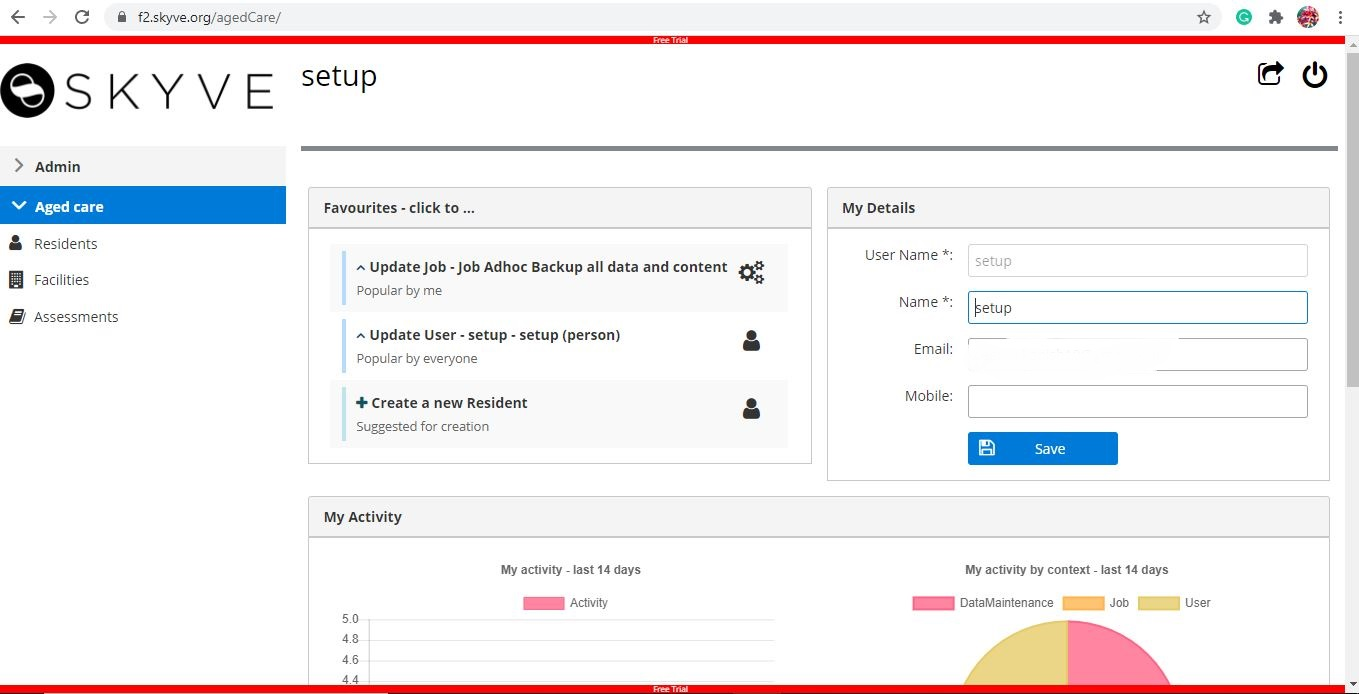
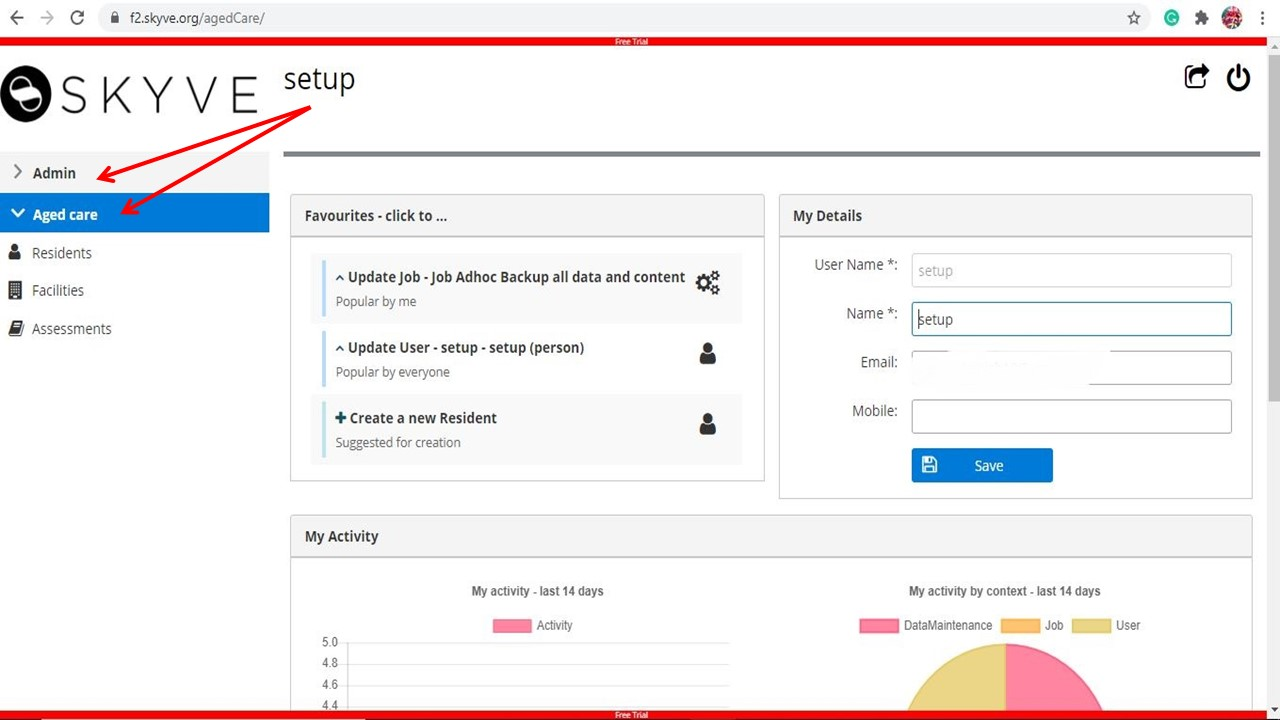
updated changes

diff --git a/readme.md b/readme.md
@@ -286,11 +286,27 @@ There are following steps to deploy Aged care application as we created in [Foun
 
 ### 2.4. Using your Aged care app
 
-Your application is ready to go. It contains two modules:Admin and Aged care. Admin module is the part of the Skyve platform. In the Aged care module, you we see the all three documents we created in the [Foundry](https://foundry.skyve.org/foundry/). Let's see how it look like...
+Your application is ready to go. It contains two modules:Admin and Aged care. These two modules show as two menus in the application as shown below.
+The Admin module is the provided as part of the Skyve platform for all applications. It provides a range of powerful administration features, including:
 
-Click on Aged care
+- user and access management
+- scheduled backups and restoring from backups
+- ability to import and export data
+- scheduled jobs and tasks
+- comprehensive system user activity audit tracking, keeping records of every user interaction in the system.
+
+In the Aged care module, you we see the a menu item for each of the three documents we created in the foundry. Let's see how it look like...
+
+Click to expand the Aged menu.
 
 ![app](doc_src_img/chapter4/4.jpg "app")
+
+You will notice two red lines- one at the top of the screen and one at the bottom of the screen.
+Generally organisations will run several instances of their application, for example, Production, Quality Assurance, Test/UAT and Development etc. For non-production instances, Skyve adds these labels so that the person using the system clearly understands whether they are working on a Production instance or not.
+
+In this case, we are using the Foundry `Free Trial` instance, so the two red indicators show. When you move to a production instance (either hosted on Foundry, or on your own infrastructure) these instance identifiers will not show.
+
+![free trail](doc_src_img/chapter4/11.jpg "free trail")
 
 Click on Facility and then add button
 
@@ -298,7 +314,7 @@ Click on Facility and then add button
 
 Enter the detail of facility in the fields and click on "Ok" or "Save" button.
 
-**Ok button:** This button performs Save and Close action on cliked. This will save the changes and return you in previous page.
+**Ok button:** This button performs Save and Close action on clicked. This will save the changes and return you in previous page.
 
 **Save button:** This button will save any changes you perform in the current page when you click on it.
 
@@ -316,23 +332,21 @@ Add data in Assessments
 
 #### Desktop Mode
 
-Skyve provides two seprate user interface: Normal mode and power user mode. In normal mode, the interface is responsive and mobile and tablet friendly where as the power user mode is great for desktop browsers.
+Skyve provides two separate user interface: Normal mode and power user mode. In normal mode, the interface is responsive and mobile and tablet friendly where as the power user mode is great for desktop browsers.
 
 To switch between interface click on the switch icon on the top-right of the application screen.
 
 ![Switch icon](doc_src_img/chapter4/9.jpg "Switch icon")
 
-After clicking
+After switching
 
 ![Switch icon click](doc_src_img/chapter4/10.jpg "Switch icon click")
 
 #### Making Changes and Re-Deploying
 
-The Skyve free trial server will automatically undeploy your project after one hour - but you can redeploy your application as many times as you need during your testing and your data is saved while the project is offline.
+The [Foundry](https://foundry.skyve.org/foundry) free trial server will automatically undeploy your project after one hour - but you can redeploy your application as many times as you need during your testing and your data is saved while the project is offline.
 
 # 3. Low Code Extension
-
-As we already explained about the low code extension at the beginning of the tutorial.
 
 In this section, we will work on collaboration and configuration of the local environment. After that, we will do some editing in the XML files, which will change the lists, views, and layout of our application. So, this step will enable us to test and deploy our application locally on our own (or another machine).
 
@@ -386,11 +400,13 @@ To create a new repository follow the steps below:
 
   ![Repository file](doc_src_img/Chapter2/7.jpg "Repository file")
 
-This is the End of create and collaboration of the application...!
+You have now successfully created your application and configured it for collaboration!
 
 ### 3.2. Configure your local environment
 
-Before import your project in Eclipse, you need to download and install Eclipse in your system.
+For this section, we have chosen to show how to use Eclipse as the development environment, however if you prefer you can use other development environment tools such as IntelliJ, NetBeans, Visual Studio Code etc. However, if you're not completely familiar with these, use Eclipse so that you can follow the steps below.
+
+Before you can import the project into Eclipse, you need to download and install Eclipse in your system.
 
 #### Download and Install Eclipse and JDK
 
@@ -408,9 +424,9 @@ Before import your project in Eclipse, you need to download and install Eclipse 
   - Click here to [download and install JDK 8](https://adoptopenjdk.net/installation.html)
   - Install an OpenJDK 8 version from [AdoptOpenJDK](https://adoptopenjdk.net/installation.html?variant=openjdk8&jvmVariant=hotspot#x86-32_win-jdk) (or an alternative open JDK of your choice)
 
-### 3.3. Install and Configue Wildfly Server
+### 3.3. Install and Configure Wildfly Server
 
-To run our Aged care application, we will need to install and configure for WildFly Server. Skyve apps can be deployed on recent versions of Wildfly (10-20).
+We need an application server to be able to access the application through our browser, for this we will demonstrate using Red Hat's Wildfly application server plugin. Skyve apps can be deployed on recent versions of Wildfly (10-20).
 
 - #### Install Wildfly Server
   You can skip this step if WildFly Server is already installed on your system.
@@ -435,7 +451,7 @@ To check if JBoss Tools is installed properly, click on Help, then click Eclipse
 
 ![Jboss tool install](doc_src_img/chapter3/4.JPG "Jboss tool install")
 
-Click Installed.
+Change to the `Installed` tab.
 
 If the JBoss Tools plugin is present, you are ready to continue.
 
@@ -544,11 +560,11 @@ To run our project in server we need to set Server in Eclipse first.
 
    ![Server set](doc_src_img/chapter5/12.jpg "Server set")
 
-## 3.7 Deploy and Configure Skyve Project
+## 3.7 Configure and Deploy the Skyve Project
 
 ##### Deploy your Skyve project
 
-Its easy to deploy your Skyve project to your WildFly Server.
+Once the Wildfly Server is configured, it's easy to deploy your Skyve project to your WildFly Server.
 
 1. Open WildFly deployments folder Right-click on the server and click on Show In, then click on File Browser
 
@@ -558,23 +574,28 @@ Its easy to deploy your Skyve project to your WildFly Server.
 
    ![Copy file](doc_src_img/chapter6/2.jpg "Copy file")
 
-3. Open the File window and content folder which is in your root folder and create new folder with agedCare name
+Skyve applications can store images and other types of rich content. To be able to do this, Skyve needs to have full access to a folder to store and manage content.
+You need to create a dedicated folder for Skyve to do this. The content folder can be located anywhere and named whatever you like, however it is easiest to place it inside your eclipse folder and name it something simple like `content`.
+
+3. Open the File window and browse to the content folder (which is in your root folder) and create new folder named `agedCare`.
 
    ![Content](doc_src_img/chapter6/3.jpg "Content")
 
-4. Open the agedCare.json file in the text editor
+4. Open the agedCare.json file in your preferred text editor.
 
-   Go to Content section and directory to paste in the Content folder address which we created in previous step in json file.
+Go to the `content` section and modify the `directory` setting to tell Skyve where the content folder is located.
+Note that you must not use backslashes even if you are running on Windows - and the folder path must be terminated with a slash
+e.g. `directory: "C:/eclipse/content/",`
 
-   ![json1](doc_src_img/chapter6/4.jpg "json1")
+![json1](doc_src_img/chapter6/4.jpg "json1")
 
-   Go to the bottom of the file to change the identifier.
+Go to the bottom of the file to change the identifier.
 
-   ![json2](doc_src_img/chapter6/5.jpg "json2")
+![json2](doc_src_img/chapter6/5.jpg "json2")
 
-   If you want to change the username and password, you can change in bootstrap in this app it is not changed.
+If you want to change the username and password, you can change in bootstrap in this app it is not changed.
 
-   Lastly, save and close the file.
+Lastly, save and close the file.
 
 5. Open agedCare-ds.xml file in the text editor
 
@@ -586,33 +607,36 @@ Its easy to deploy your Skyve project to your WildFly Server.
 
 ##### Run your Aged care application
 
-Before running your project, we will need to generate the domain class first.
+Part of Skyve's low-code approach is to generate Java code for you (in the background) so that you don't have to write large amounts of Java code. We call this step `Generate Domain` because Java classes will be created representing the `domain` (the `problem domain` or `area of knowledge`) of your project. The domain classes are Java classes that do the work of managing data access and storage for your application.
 
 Generate domain validates and compiles the metadata (XML files) in your project and checks that the application domain is in a valid state. Errors for the developer to fix are written to your console, and if generate is successful, the domain will be compiled to produce Java domain files and unit tests.
 
 ![Generate domain](doc_src_img/chapter6/6.jpg "Generate domain")
 
-Right click on server and go to start button to start the server.
+Right click the server and use the start button to start the server.
 
 ![start server](doc_src_img/chapter6/9.jpg "start server")
 
-When you see the below info in your Console Window, agedCare was deployed and is running on your localhost server.
+When your Console Window shows text similar to that shown below, your agedCare has been deployed and is running on your localhost server (your local machine).
 
 ![Console](doc_src_img/chapter6/10.JPG "Console server")
 
 If not, you may try to debug by yourself to find the source of the problem, or [Join Us On Slack](https://join.slack.com/t/skyveframework/shared_invite/enQtNDMwNTcyNzE0NzI2LWNjMTBlMTMzNTA4YzBlMzFhYzE0ZmRhOWIzMWViODY4ZTE1N2QzYWM1MTdlMTliNDIyYTBkOWZhZDAxOGQyYjQ) and ask any questions there. You will get support from the [Skyve](https://skyve.org) team or a community team member.
 
-Access Aged care app from Web Browser at http://localhost:8080/agedCare. Sign in with by default username "setup" and password "setup".
+Access the Aged care app from your Web Browser at http://localhost:8080/agedCare. Sign in with by default username "setup" and password "setup"..
 
 ![Aged care app](doc_src_img/chapter6/"Aged care app")
 
 ### 3.8. List Views
 
-In most of application data is represented in list and detail views. Skyve also capable to provide each type of view.
+Skyve provides two main ways of accessing data - either via list or detail views. The `list` view allows you to search and find the data you wish to change and is normally what you see when you choose a menu item. Once you select a record you will see the `detail` view - which allows you to enter, change or delete data.
 
 Skyve will provide generic/default list and edit views. Skyve supports rapid prototyping of the domain model and gives the developer an ability to begin interacting with the application at an early stage.
 
-List views are basically depend on queries which include only key document attributes for searching and review. Each row of the list corresponds to a document instance however the list may represent data from related documents within the document’s object hierarchy.
+List views provide for searching and review of data - they show data in the context of other data in the system. Lists are usually based on queries that you can define, however, for simple applications Skyve will automatically list all records for each type of `document`.
+
+Each row of the list corresponds to an instance of the document (a record) but may include columns from associated documents within the document's object hierarchy.
+For example, the list of Residents may include columns for the Facility and Staff - because these documents are associated to the Resident records.
 
 - #### Resident List
 
